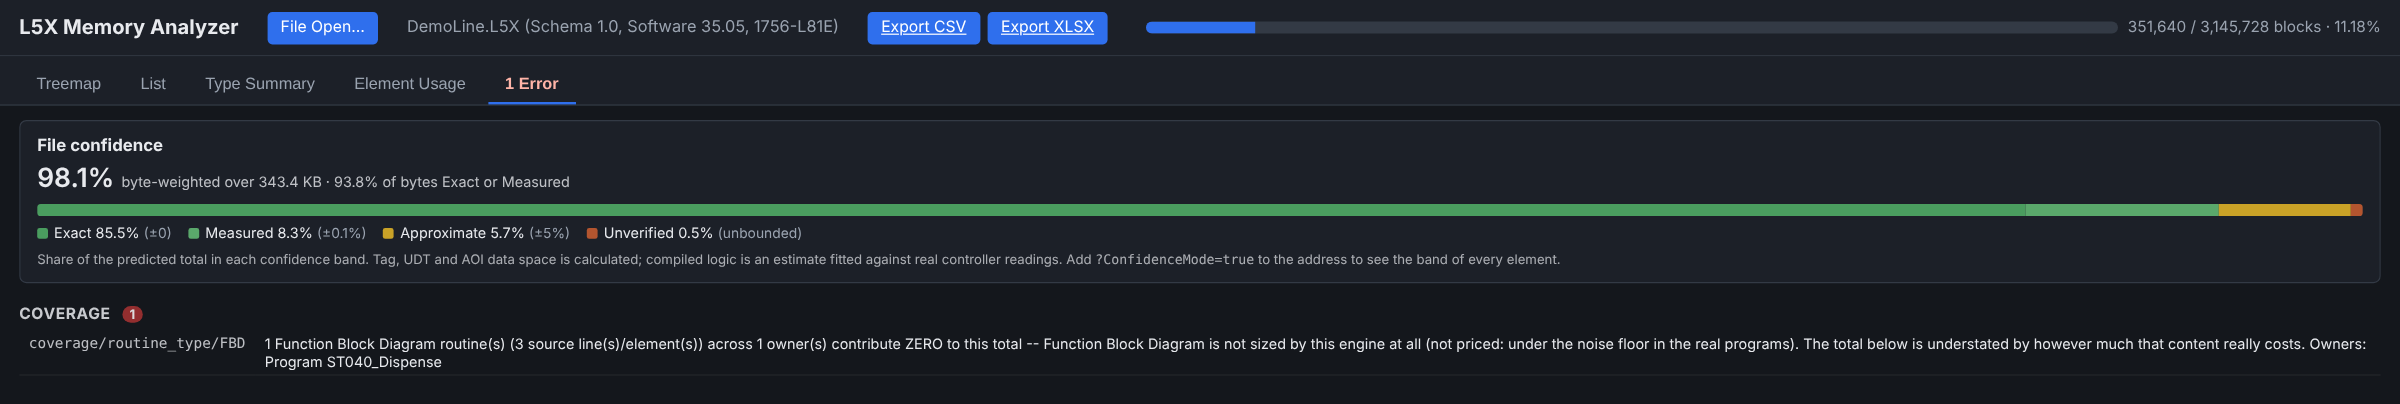
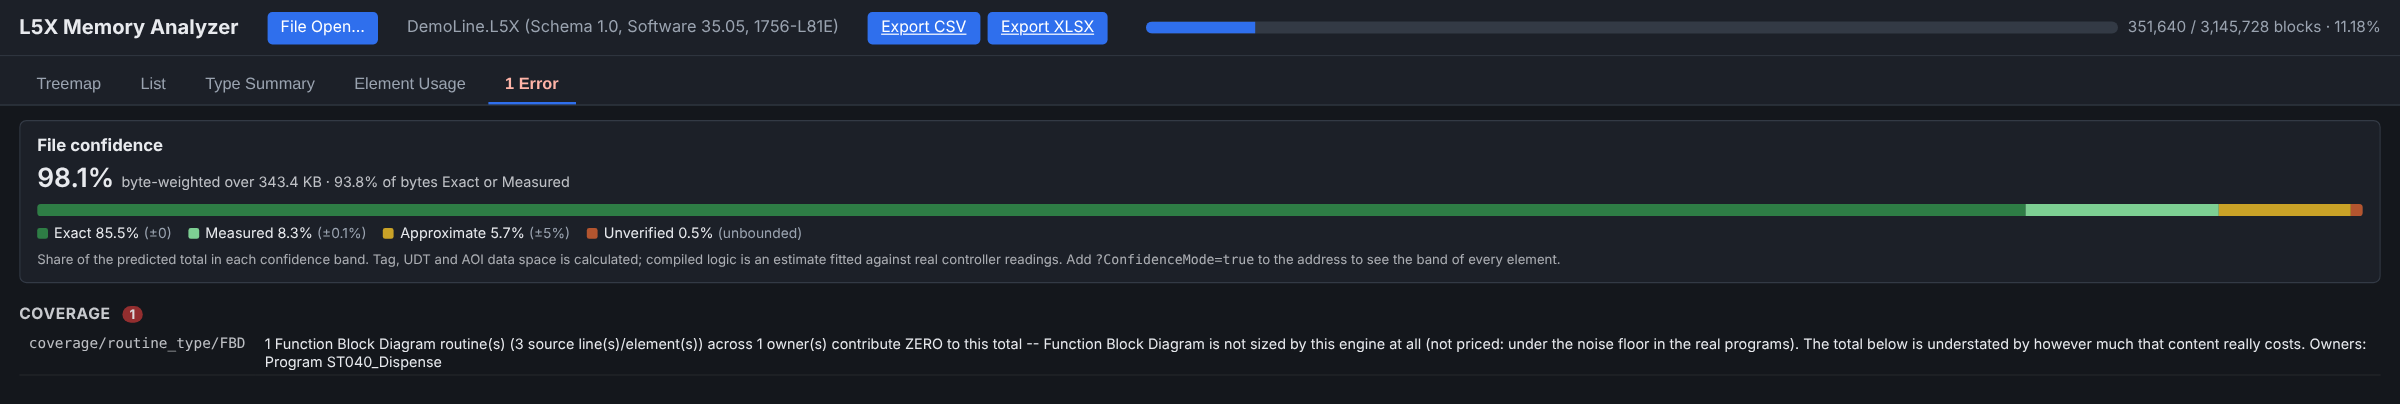
Re-apply three changes lost unpushed when the session's machine was recycled
UI: a failed heartbeat dims the page and shows a banner saying the analyzer has stopped and
how to restart it (re-checks every 5 s, clears when the server answers). Confidence colours:
Exact a deep green, Measured a light green. Usage: \Program.Tag cross-program references
resolve to that program's tag; a source-protected AOI lists its parameters, taken as used by
its hidden logic when called; the Used column sorts by share used.

Claude-Session: https://claude.ai/code/session_01AGy4dVMQ2dzjTxeVGQMwxh

Changed region(s): [[0.0, 0.505, 0.9375, 0.5347], [0.0625, 0.5644, 0.0938, 0.5941], [0.0, 0.5644, 0.0312, 0.5941]]

diff --git a/src/l5x_memory_analyzer/ui/static/app.js b/src/l5x_memory_analyzer/ui/static/app.js
@@ -2452,7 +2452,43 @@ function renderTypeSummaryInto(elId) {
 
 // While this page is open the local server stays up; started from the desktop
 // shortcut it exits a few minutes after the last tab closes.
-setInterval(() => fetch("/api/heartbeat", { method: "POST" }).catch(() => {}), 30000);
+//
+// The same ping tells the page whether the server is still there. Closing the
+// Python window used to leave a page that looked alive and answered nothing:
+// now a failed ping (checked every 5 s) puts up a banner saying the analyzer
+// stopped and how to restart it, and clears it when the server comes back.
+let HEARTBEAT_LAST = 0;
+let SERVER_DOWN = false;
+async function heartbeat() {
+  try {
+    const res = await fetch("/api/heartbeat", { method: "POST", cache: "no-store" });
+    if (!res.ok) throw new Error(res.status);
+    if (SERVER_DOWN) { SERVER_DOWN = false; setServerDown(false); }
+  } catch (e) {
+    if (!SERVER_DOWN) { SERVER_DOWN = true; setServerDown(true); }
+  }
+}
+function setServerDown(down) {
+  let el = document.getElementById("server-down");
+  if (!el) {
+    el = document.createElement("div");
+    el.id = "server-down";
+    el.setAttribute("role", "alert");
+    el.innerHTML = `<strong>The analyzer has stopped.</strong> Its Python window was closed or the program ` +
+      `exited, so nothing on this page will update. Start it again (the desktop shortcut, or ` +
+      `<code>l5x-memory-analyzer ui</code>) and this page reconnects by itself; reload to open a file again.`;
+    document.body.appendChild(el);
+  }
+  el.classList.toggle("hidden", !down);
+  document.body.classList.toggle("server-down", down);
+}
+setInterval(() => {
+  // Every 5 s while the server is down (to notice it coming back), every 30 s otherwise.
+  const now = Date.now();
+  if (SERVER_DOWN || now - HEARTBEAT_LAST >= 30000) { HEARTBEAT_LAST = now; heartbeat(); }
+}, 5000);
+// A failed request from any part of the page checks at once rather than waiting.
+window.addEventListener("unhandledrejection", () => heartbeat());
 main();
 
 
@@ -2565,7 +2601,9 @@ function usageRows(nodes) {
   const f = USAGE.filter, { key, dir } = USAGE.sort;
   const rows = nodes.map((n, i) => [n, i]).filter(([n]) =>
     f === "all" || (f === "used" ? n.u > 0 : n.u < n.k));
+  // Used sorts by share used (99/99 = 100% above 99/999 = 9.9%), then by element count.
   const val = n => key === "size" ? (n.s || 0) : key === "refs" ? (n.x || 0)
+    : key === "used" ? (n.k ? n.u / n.k : 0) + (n.k || 0) * 1e-9
     : String(key === "type" ? n.t : n.n).toLowerCase();
   return rows.sort((a, b) => {
     const x = val(a[0]), y = val(b[0]);
@@ -2590,7 +2628,7 @@ function sortHead() {
     `<button type="button" data-sort="type" class="uh-type">Type${arrow("type")}</button>` +
     `<button type="button" data-sort="size" class="uh-size">Size${arrow("size")}</button>` +
     `<button type="button" data-sort="refs" class="uh-refs" title="How many times the project's logic, aliases, alarms and axes name it (an AOI: its calls; a UDT: its instances)">Refs${arrow("refs")}</button>` +
-    `<span class="uh-used">Used</span></div>`;
+    `<button type="button" data-sort="used" class="uh-used" title="Share of elements used">Used${arrow("used")}</button></div>`;
 }
 
 // Colour by the share of elements used, on one ramp: red at none, orange at
@@ -2623,7 +2661,7 @@ function usageColumn(title, nodes, selected, onPick, extraClass = "") {
     (rows.length ? rows.map(([n, i]) => usageRowHtml(n, i, n === selected)).join("")
                  : `<div class="usage-empty">${nodes.length ? "Nothing to show." : "None."}</div>`) + `</div>`;
   col.querySelectorAll(".usage-head button").forEach(b => b.addEventListener("click", () => {
-    USAGE.sort = { key: b.dataset.sort, dir: USAGE.sort.key === b.dataset.sort ? -USAGE.sort.dir : (["size", "refs"].includes(b.dataset.sort) ? -1 : 1) };
+    USAGE.sort = { key: b.dataset.sort, dir: USAGE.sort.key === b.dataset.sort ? -USAGE.sort.dir : (["size", "refs", "used"].includes(b.dataset.sort) ? -1 : 1) };
     drawUsage();
   }));
   col.querySelectorAll(".usage-row").forEach(b => b.addEventListener("click", () => onPick(nodes[+b.dataset.i])));

diff --git a/src/l5x_memory_analyzer/ui/static/styles.css b/src/l5x_memory_analyzer/ui/static/styles.css
@@ -26,8 +26,8 @@
   /* Confidence bands. One definition, used by the bar fills below AND by the
      treemap when ?ConfidenceMode=true recolours it by band, so a tile and the
      bar describing it can never be two different greens. */
-  --band-EXACT: #4a9d5f;
-  --band-MEASURED: #5aa86b;
+  --band-EXACT: #2e7d45;
+  --band-MEASURED: #7dcf93;
   --band-CLOSE: #86b04a;
   --band-APPROX: #c9a227;
   --band-UNVERIFIED: #b3552f;
@@ -859,3 +859,10 @@ body:has(#errors-banner:not(.hidden)) #panel-usage.active { padding-bottom: 52px
 #usage-refs-card td:first-child { color: var(--text-dim); }
 #usage-refs-card td.refs-n { color: var(--text-dim); text-align: right; padding-right: 0; }
 #usage-refs-card .refs-more, #usage-refs-card .refs-none { margin-top: 6px; color: var(--text-dim); }
+
+/* The analyzer's Python process is gone: say so over everything, not a frozen page. */
+#server-down { position: fixed; top: 0; left: 0; right: 0; z-index: 100; padding: 12px 18px; font-size: 14px;
+  color: #fff; background: #b3261e; box-shadow: 0 2px 12px rgba(0, 0, 0, 0.35); }
+#server-down.hidden { display: none; }
+#server-down code { background: rgba(255, 255, 255, 0.18); padding: 1px 5px; border-radius: 3px; }
+body.server-down main, body.server-down #tabs, body.server-down #nav-row { opacity: 0.45; pointer-events: none; }

diff --git a/src/l5x_memory_analyzer/usage.py b/src/l5x_memory_analyzer/usage.py
@@ -45,6 +45,8 @@ _FILE_INSTRUCTIONS = frozenset({
 })
 
 _MODULE_REF = re.compile(r"\b([A-Za-z_][A-Za-z0-9_]*):(?:\d+:)?[IOCS]\b")
+# A tag of another program, named across programs: \Program.Tag (then any members).
+_PROGRAM_REF = re.compile(r"\\([A-Za-z_][A-Za-z0-9_]*)\.([A-Za-z_][A-Za-z0-9_]*)")
 _HEX_LITERAL = re.compile(r"\b\d+#[0-9A-Fa-f_]+")
 _ST_COMMENT = re.compile(r"\(\*.*?\*\)|//[^\n]*|/\*.*?\*/", re.S)
 _ST_STRING = re.compile(r"'[^']*'|\"[^\"]*\"")
@@ -175,6 +177,9 @@ class UsageIndex:
         self._type_member_locs: dict[tuple[str, str], list] = {}
         self._aoi_internal_locs: dict[tuple[str, str], list] = {}
         self._aoi_call_locs: dict[str, list] = {}
+        # AOIs whose logic the export does not show (source-protected): their parameters
+        # and local tags are taken as used by that logic.
+        self.protected_aois: set[str] = set()
         self._declare()
         self._scan()
 
@@ -194,6 +199,8 @@ class UsageIndex:
             own.update({t.get("Name"): (t.get("DataType"), t.get("Dimensions") or "0")
                         for t in aoi.iter("LocalTag")})
             self._members[name] = own
+            if aoi.find(".//Routine") is None:
+                self.protected_aois.add(name)
         for k, v in {"TIMER": ("PRE", "ACC", "EN", "TT", "DN"),
                      "COUNTER": ("PRE", "ACC", "CU", "CD", "DN", "OV", "UN"),
                      "CONTROL": ("LEN", "POS", "EN", "EU", "DN", "EM", "ER", "UL", "IN", "FD")}.items():
@@ -309,11 +316,31 @@ class UsageIndex:
             self._modules[m.group(1)] = self._modules.get(m.group(1), 0) + 1
         text = _MODULE_REF.sub(" ", text)
         text = _HEX_LITERAL.sub(" ", text)
+        if "\\" in text:
+            text = self._record_program_refs(text, depth)
         for m in _PATH.finditer(text):
             segs, inner = _segments(m.group(2))
             self._record(scope, m.group(1), segs, depth)
             for body in inner:
                 self._record_text(scope, body, depth)
+
+    def _record_program_refs(self, text: str, depth: int) -> str:
+        """Record every \\Program.Tag reference in that program's scope, and return the text
+        with them blanked so the plain-path pass does not read them again."""
+        out, pos = [], 0
+        for m in _PROGRAM_REF.finditer(text):
+            scope = f"program:{m.group(1)}"
+            tail = _PATH.match(m.group(2) + text[m.end():])
+            segs, inner = _segments(tail.group(2)) if tail else ([], [])
+            if m.group(2) in self._types.get(scope, {}):
+                self._record(scope, m.group(2), segs, depth)
+            for body in inner:
+                self._record_text(scope, body, depth)
+            end = m.end() + (len(tail.group(0)) - len(m.group(2)) if tail else 0)
+            out += [text[pos:m.start()], " " * (end - m.start())]
+            pos = end
+        out.append(text[pos:])
+        return "".join(out)
 
     def _record_file_instructions(self, scope: str, text: str) -> None:
         """COP(Arr[0],...) touches the elements after [0] too: a whole-array use."""
@@ -374,6 +401,16 @@ class UsageIndex:
                             self._loc(self._aoi_internal_locs.setdefault(k, []))
                             self._loc(self._type_member_locs.setdefault(k, []))
         self._where = None
+        for name in self.protected_aois:
+            for member in self._members.get(name, {}):
+                if member in SYSTEM_MEMBERS:
+                    continue
+                k = (name, member)
+                self._aoi_internal[k] = self._aoi_internal.get(k, 0) + 1
+                self._type_member[k] = self._type_member.get(k, 0) + 1
+                place = [name, "(source-protected logic)", "assumed used", 1]
+                self._aoi_internal_locs.setdefault(k, []).append(place)
+                self._type_member_locs.setdefault(k, []).append(list(place))
         # Non-logic references: alias targets, alarms, motion.
         for scope, container in [(CONTROLLER_SCOPE, self._controller)] + [
                 (f"program:{p.get('Name')}", p) for p in self._controller.iter("Program")]:

diff --git a/tests/test_unused_report.py b/tests/test_unused_report.py
@@ -141,3 +141,33 @@ def test_fbd_grid_cell_matches_the_studio_reading():
     from l5x_memory_analyzer.usage import fbd_grid_cell
     assert fbd_grid_cell("600", "320") == "D2"
     assert fbd_grid_cell("180", "120") == "A1"
+
+
+def test_a_tag_named_across_programs_is_used():
+    """\\Program.Tag reaches a program-scope tag from another program."""
+    other = ('<Program Name="Other" TestEdits="false" MainRoutineName="Main" Disabled="false" UseAsFolder="false">'
+             '<Tags><Tag Name="Shared" TagType="Base" DataType="DINT" Radix="Decimal" Constant="false" '
+             'ExternalAccess="Read/Write"/></Tags><Routines><Routine Name="Main" Type="RLL"><RLLContent>'
+             + rung_xml(0, "NOP();") + '</RLLContent></Routine></Routines></Program>')
+    l5x = build_l5x(target_name="Cross", tags_xml=tag_xml("Dst", "DINT"), extra_programs_xml=other,
+                    extra_rungs_xml=rung_xml(0, "MOV(\\Other.Shared,Dst);"))
+    u = UsageIndex(ET.fromstring(l5x))
+    assert u.tag("program:Other/Shared").count == 1
+
+
+def test_a_source_protected_aoi_lists_its_parameters_as_used_when_called():
+    from l5x_memory_analyzer.parser.aoi import parse_aoi_definitions
+    from l5x_memory_analyzer.parser.datatypes import parse_data_types
+    from l5x_memory_analyzer.sizing.constants import load_memory_model
+    aoi = ('<AddOnInstructionDefinition Name="Locked" Revision="1.0"><Parameters>'
+           '<Parameter Name="EnableIn" TagType="Base" DataType="BOOL" Usage="Input" Required="false" Visible="false"/>'
+           '<Parameter Name="Go" TagType="Base" DataType="BOOL" Usage="Input" Required="false" Visible="true"/>'
+           '</Parameters></AddOnInstructionDefinition>')
+    root = ET.fromstring(build_l5x(target_name="Locked", extra_aoi_xml=aoi,
+                                   tags_xml='<Tag Name="L1" TagType="Base" DataType="Locked"/>',
+                                   extra_rungs_xml=rung_xml(0, "Locked(L1);")))
+    u = UsageIndex(root)
+    assert "Locked" in u.protected_aois
+    types = {**parse_data_types(root), **parse_aoi_definitions(root)}
+    item = [i for i in unused_report(u, types, load_memory_model())["kinds"][2]["items"] if i["n"] == "Locked"][0]
+    assert (item["u"], item["k"]) == (1, 1) and item["c"][0]["r"][0][1] == "(source-protected logic)"

diff --git a/src/l5x_memory_analyzer/unused.py b/src/l5x_memory_analyzer/unused.py
@@ -113,6 +113,13 @@ class UnusedReport:
                 if not c.segment.startswith(".") or not _visible(c.segment[1:]):
                     continue
                 out.append((c.name, c.segment, c.data_type, tuple(c.dimensions), c.bytes))
+            if not out and self.u._members.get(dtype):
+                # A type the sizer does not expand (a source-protected AOI): its declared
+                # members, from the usage index, each sized on its own.
+                for name, (mtype, mdims) in self.u._members[dtype].items():
+                    if _visible(name):
+                        dims = _dims(mdims)
+                        out.append((name, f".{name}", mtype, dims, self._size(mtype, dims)))
             self._kid_cache[dtype] = out
         return self._kid_cache[dtype]
 

diff --git a/docs/COMMANDS.md b/docs/COMMANDS.md
@@ -38,7 +38,7 @@ l5x-memory-analyzer ui path/to/file.L5X --port 9000 --no-browser
 **Windows, nothing installed:** double-click `Setup.cmd` in the repository root
 (it runs `scripts/setup_windows.ps1`). It installs Python per-user if none is
 found, builds `.venv`, self-checks, adds a desktop shortcut and opens the UI.
-Works on a fresh Windows 10 install (2026-10-17). The shortcut runs one server however often it is clicked (a second click finds it and only opens the browser) and that server exits 60 minutes after the last browser tab closes; the page keeps it alive with a heartbeat every 30 s. `Uninstall.cmd` (`scripts/uninstall_windows.ps1`) stops any analyzer server running from the folder, deletes the shortcut and `.venv`, and uninstalls Python only when `Setup.cmd` installed it (it leaves `.python-installed-by-setup` when it does); the folder itself is left for you to delete. Windows 7 is not supported:
+Works on a fresh Windows 10 install (2026-10-17). The shortcut runs one server however often it is clicked (a second click finds it and only opens the browser) and that server exits 60 minutes after the last browser tab closes; the page keeps it alive with a heartbeat every 30 s. If that heartbeat fails (the Python window was closed), the page dims and a red banner says the analyzer has stopped and how to start it again; it checks every 5 s and clears itself when the server is back. `Uninstall.cmd` (`scripts/uninstall_windows.ps1`) stops any analyzer server running from the folder, deletes the shortcut and `.venv`, and uninstalls Python only when `Setup.cmd` installed it (it leaves `.python-installed-by-setup` when it does); the folder itself is left for you to delete. Windows 7 is not supported:
 its PowerShell 2.0 has no `$PSScriptRoot`, and Python 3.9 and later do not run
 on it.
 
